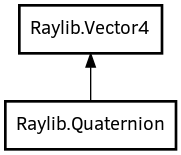
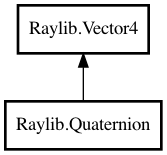
Rebuilt docs to test GPG signing

diff --git a/docs/raylib/Raylib.Quaternion.html b/docs/raylib/Raylib.Quaternion.html
@@ -36,8 +36,8 @@
         <img class="main_diagram" usemap="#Raylib.Quaternion" alt="Object hierarchy for Quaternion" src="img/Raylib.Quaternion.png"/>
 
       <map id="Raylib.Quaternion" name="Raylib.Quaternion">
-<area shape="rect" id="node1" href="Raylib.Quaternion.html" title="Raylib.Quaternion" alt="" coords="5,101,176,149"/>
-<area shape="rect" id="node2" href="Raylib.Vector4.html" title="Raylib.Vector4" alt="" coords="19,5,162,53"/>
+<area shape="rect" id="node1" href="Raylib.Quaternion.html" title="Raylib.Quaternion" alt="" coords="5,101,161,149"/>
+<area shape="rect" id="node2" href="Raylib.Vector4.html" title="Raylib.Vector4" alt="" coords="18,5,149,53"/>
 </map>
 
         <h2 class="main_title">Description:</h2>

diff --git a/docs/raylib/Raylib.Rectangle.html b/docs/raylib/Raylib.Rectangle.html
@@ -40,7 +40,7 @@
         <img class="main_diagram" usemap="#Raylib.Rectangle" alt="Object hierarchy for Rectangle" src="img/Raylib.Rectangle.png"/>
 
       <map id="Raylib.Rectangle" name="Raylib.Rectangle">
-<area shape="rect" id="node1" href="Raylib.Rectangle.html" title="Raylib.Rectangle" alt="" coords="5,5,167,53"/>
+<area shape="rect" id="node1" href="Raylib.Rectangle.html" title="Raylib.Rectangle" alt="" coords="5,5,152,53"/>
 </map>
 
         <h2 class="main_title">Description:</h2>

diff --git a/docs/raylib/Raylib.Vector2.html b/docs/raylib/Raylib.Vector2.html
@@ -38,7 +38,7 @@
         <img class="main_diagram" usemap="#Raylib.Vector2" alt="Object hierarchy for Vector2" src="img/Raylib.Vector2.png"/>
 
       <map id="Raylib.Vector2" name="Raylib.Vector2">
-<area shape="rect" id="node1" href="Raylib.Vector2.html" title="Raylib.Vector2" alt="" coords="5,5,147,53"/>
+<area shape="rect" id="node1" href="Raylib.Vector2.html" title="Raylib.Vector2" alt="" coords="5,5,136,53"/>
 </map>
 
         <h2 class="main_title">Description:</h2>

diff --git a/docs/raylib/Raylib.Vector3.html b/docs/raylib/Raylib.Vector3.html
@@ -39,7 +39,7 @@
         <img class="main_diagram" usemap="#Raylib.Vector3" alt="Object hierarchy for Vector3" src="img/Raylib.Vector3.png"/>
 
       <map id="Raylib.Vector3" name="Raylib.Vector3">
-<area shape="rect" id="node1" href="Raylib.Vector3.html" title="Raylib.Vector3" alt="" coords="5,5,147,53"/>
+<area shape="rect" id="node1" href="Raylib.Vector3.html" title="Raylib.Vector3" alt="" coords="5,5,136,53"/>
 </map>
 
         <h2 class="main_title">Description:</h2>

diff --git a/docs/raylib/Raylib.Vector4.html b/docs/raylib/Raylib.Vector4.html
@@ -40,7 +40,7 @@
         <img class="main_diagram" usemap="#Raylib.Vector4" alt="Object hierarchy for Vector4" src="img/Raylib.Vector4.png"/>
 
       <map id="Raylib.Vector4" name="Raylib.Vector4">
-<area shape="rect" id="node1" href="Raylib.Vector4.html" title="Raylib.Vector4" alt="" coords="5,5,148,53"/>
+<area shape="rect" id="node1" href="Raylib.Vector4.html" title="Raylib.Vector4" alt="" coords="5,5,136,53"/>
 </map>
 
         <h2 class="main_title">Description:</h2>

diff --git a/docs/raylib/Raylib.Window.html b/docs/raylib/Raylib.Window.html
@@ -53,7 +53,7 @@
         <img class="main_diagram" usemap="#Raylib.Window" alt="Object hierarchy for Window" src="img/Raylib.Window.png"/>
 
       <map id="Raylib.Window" name="Raylib.Window">
-<area shape="rect" id="node1" href="Raylib.Window.html" title="Raylib.Window" alt="" coords="5,5,148,53"/>
+<area shape="rect" id="node1" href="Raylib.Window.html" title="Raylib.Window" alt="" coords="5,5,143,53"/>
 </map>
 
         <h2 class="main_title">Description:</h2>

diff --git a/docs/raylib/Raylib.Color.html b/docs/raylib/Raylib.Color.html
@@ -40,7 +40,7 @@
         <img class="main_diagram" usemap="#Raylib.Color" alt="Object hierarchy for Color" src="img/Raylib.Color.png"/>
 
       <map id="Raylib.Color" name="Raylib.Color">
-<area shape="rect" id="node1" href="Raylib.Color.html" title="Raylib.Color" alt="" coords="5,5,128,53"/>
+<area shape="rect" id="node1" href="Raylib.Color.html" title="Raylib.Color" alt="" coords="5,5,121,53"/>
 </map>
 
         <h2 class="main_title">Description:</h2>
